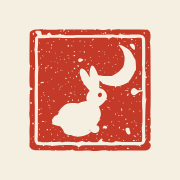
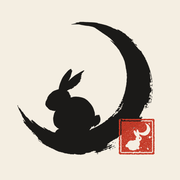
로고를 프로필 사진과 같은 그림으로: 종이색 네모 안 먹 달토끼 + 작은 붉은 도장 (맨 위·탭 그림)
- 대표님: "홈페이지도 그냥 이거로 해 줘"
- 360·412·1280 폭 한 줄, 가로 스크롤 없음

Claude-Session: https://claude.ai/code/session_01FLsPLfxv7h6r3gtgJWuoQW

diff --git a/sns/index.html b/sns/index.html
@@ -10,7 +10,7 @@
 <link rel="icon" href="../assets/favicon-16.png" type="image/png" sizes="16x16">
 <link rel="preload" href="../assets/fonts/Galmuri11-Bold.woff2" as="font" type="font/woff2" crossorigin>
 <link rel="preload" href="../assets/fonts/SongMyung-logo.woff2" as="font" type="font/woff2" crossorigin>
-<link rel="stylesheet" href="../style.css?v=20261117b">
+<link rel="stylesheet" href="../style.css?v=20261117c">
 <style>
 .post{margin:0 0 28px}
 .post h2{font-family:var(--pixel);font-weight:700;font-size:20px;margin:0 0 4px}
@@ -25,7 +25,7 @@ pre.copy{white-space:pre-wrap;word-break:keep-all;background:#fff8e6;color:var(-
 </head>
 <body>
 <div class="page">
-  <div class="top"><a class="mark" href="../"><img class="ink" src="../assets/logo-ink.svg" alt="" width="36" height="35">달나라 게임즈<img class="nak" src="../assets/logo-seal.svg" alt="" width="15" height="15"></a></div>
+  <div class="top"><a class="mark" href="../"><img class="tile" src="../assets/logo-tile.png" alt="" width="36" height="36">달나라 게임즈</a></div>
   <div class="doc">
     <h1>게시 목록</h1>
     <p class="when">인스타그램 @dalnara_games · 쓰레드 @dalnara_games · 오늘 11월 14일 (토)</p>

diff --git a/hanmari/index.html b/hanmari/index.html
@@ -16,12 +16,12 @@
 <link rel="apple-touch-icon" href="../assets/apple-touch-icon.png">
 <link rel="preload" href="../assets/fonts/Galmuri11-Bold.woff2" as="font" type="font/woff2" crossorigin>
 <link rel="preload" href="../assets/fonts/SongMyung-logo.woff2" as="font" type="font/woff2" crossorigin>
-<link rel="stylesheet" href="../style.css?v=20261117b">
+<link rel="stylesheet" href="../style.css?v=20261117c">
 </head>
 <body>
 <div class="page">
   <div class="top">
-    <a class="mark" href="../"><img class="ink" src="../assets/logo-ink.svg" alt="" width="36" height="35">달나라 게임즈<img class="nak" src="../assets/logo-seal.svg" alt="" width="15" height="15"></a>
+    <a class="mark" href="../"><img class="tile" src="../assets/logo-tile.png" alt="" width="36" height="36">달나라 게임즈</a>
     <nav aria-label="메뉴"><a href="https://www.threads.com/@dalnara_games" rel="noopener">쓰레드</a><a href="../#game">게임</a><a href="../#log">기록</a><a href="../#letter">편지</a></nav>
   </div>
 

diff --git a/tongtong/index.html b/tongtong/index.html
@@ -16,12 +16,12 @@
 <link rel="apple-touch-icon" href="../assets/apple-touch-icon.png">
 <link rel="preload" href="../assets/fonts/Galmuri11-Bold.woff2" as="font" type="font/woff2" crossorigin>
 <link rel="preload" href="../assets/fonts/SongMyung-logo.woff2" as="font" type="font/woff2" crossorigin>
-<link rel="stylesheet" href="../style.css?v=20261117b">
+<link rel="stylesheet" href="../style.css?v=20261117c">
 </head>
 <body>
 <div class="page">
   <div class="top">
-    <a class="mark" href="../"><img class="ink" src="../assets/logo-ink.svg" alt="" width="36" height="35">달나라 게임즈<img class="nak" src="../assets/logo-seal.svg" alt="" width="15" height="15"></a>
+    <a class="mark" href="../"><img class="tile" src="../assets/logo-tile.png" alt="" width="36" height="36">달나라 게임즈</a>
     <nav aria-label="메뉴"><a href="https://www.threads.com/@dalnara_games" rel="noopener">쓰레드</a><a href="../#game">게임</a><a href="../#log">기록</a><a href="../#letter">편지</a></nav>
   </div>
 

diff --git a/index.html b/index.html
@@ -16,12 +16,12 @@
 <link rel="apple-touch-icon" href="assets/apple-touch-icon.png">
 <link rel="preload" href="assets/fonts/Galmuri11-Bold.woff2" as="font" type="font/woff2" crossorigin>
 <link rel="preload" href="assets/fonts/SongMyung-logo.woff2" as="font" type="font/woff2" crossorigin>
-<link rel="stylesheet" href="style.css?v=20261117b">
+<link rel="stylesheet" href="style.css?v=20261117c">
 </head>
 <body>
 <div class="page">
   <div class="top">
-    <a class="mark" href="./"><img class="ink" src="assets/logo-ink.svg" alt="" width="36" height="35">달나라 게임즈<img class="nak" src="assets/logo-seal.svg" alt="" width="15" height="15"></a>
+    <a class="mark" href="./"><img class="tile" src="assets/logo-tile.png" alt="" width="36" height="36">달나라 게임즈</a>
     <nav aria-label="메뉴"><a href="https://www.threads.com/@dalnara_games" rel="noopener">쓰레드</a><a href="#game">게임</a><a href="#log">기록</a><a href="#letter">편지</a></nav>
   </div>
 

diff --git a/privacy.html b/privacy.html
@@ -15,12 +15,12 @@
 <link rel="preload" href="assets/fonts/Galmuri11-Bold.woff2" as="font" type="font/woff2" crossorigin>
 <link rel="preload" href="assets/fonts/SongMyung-logo.woff2" as="font" type="font/woff2" crossorigin>
 <link rel="stylesheet" href="https://fonts.googleapis.com/css2?family=Gowun+Batang:wght@400;700&display=swap">
-<link rel="stylesheet" href="style.css?v=20261117b">
+<link rel="stylesheet" href="style.css?v=20261117c">
 </head>
 <body>
 <div class="page">
   <div class="top">
-    <a class="mark" href="./"><img class="ink" src="assets/logo-ink.svg" alt="" width="36" height="35">달나라 게임즈<img class="nak" src="assets/logo-seal.svg" alt="" width="15" height="15"></a>
+    <a class="mark" href="./"><img class="tile" src="assets/logo-tile.png" alt="" width="36" height="36">달나라 게임즈</a>
     <nav aria-label="메뉴"><a href="./#game">게임</a><a href="./#log">기록</a><a href="./#letter">편지</a></nav>
   </div>
   <div class="doc">

diff --git a/terms.html b/terms.html
@@ -15,12 +15,12 @@
 <link rel="preload" href="assets/fonts/Galmuri11-Bold.woff2" as="font" type="font/woff2" crossorigin>
 <link rel="preload" href="assets/fonts/SongMyung-logo.woff2" as="font" type="font/woff2" crossorigin>
 <link rel="stylesheet" href="https://fonts.googleapis.com/css2?family=Gowun+Batang:wght@400;700&display=swap">
-<link rel="stylesheet" href="style.css?v=20261117b">
+<link rel="stylesheet" href="style.css?v=20261117c">
 </head>
 <body>
 <div class="page">
   <div class="top">
-    <a class="mark" href="./"><img class="ink" src="assets/logo-ink.svg" alt="" width="36" height="35">달나라 게임즈<img class="nak" src="assets/logo-seal.svg" alt="" width="15" height="15"></a>
+    <a class="mark" href="./"><img class="tile" src="assets/logo-tile.png" alt="" width="36" height="36">달나라 게임즈</a>
     <nav aria-label="메뉴"><a href="./#game">게임</a><a href="./#log">기록</a><a href="./#letter">편지</a></nav>
   </div>
   <div class="doc">

diff --git a/style.css b/style.css
@@ -147,6 +147,6 @@ section.one{padding-top:18px}
 @font-face{font-family:'SongMyung Logo';font-display:swap;src:url(assets/fonts/SongMyung-logo.woff2) format('woff2')}
 .top .mark{gap:9px;font-family:'SongMyung Logo',var(--serif);font-weight:400;font-size:20px;letter-spacing:.04em;line-height:1.2;color:#f1ead8;white-space:nowrap;flex:none}
 .top .mark img{flex:none}
-.top .mark .ink{width:36px;height:35px}
-.top .mark .nak{width:15px;height:15px;margin-left:-4px;position:relative;top:3px}
-@media (max-width:400px){.top .mark{font-size:17px;letter-spacing:.02em;gap:7px}.top .mark .ink{width:29px;height:28px}.top .mark .nak{width:13px;height:13px;margin-left:-3px}}
+.top .mark .tile{width:36px;height:36px;border-radius:5px}
+
+@media (max-width:400px){.top .mark{font-size:17px;letter-spacing:.02em;gap:7px}.top .mark .tile{width:30px;height:30px}}

diff --git a/CLAUDE.md b/CLAUDE.md
@@ -11,6 +11,6 @@
 ## 이 저장소
 - 달나라 게임즈 홈페이지(https://dalnaragames.com). GitHub Pages로 main 브랜치가 바로 올라간다.
 - 디자인은 AI 느낌을 피한다: 둥근 모서리·그라데이션·빛 번짐·이모지 장식 금지, 도트 글꼴(갈무리)과 나무 판자·양피지 같은 도트 재료를 쓴다.
-- **로고는 먹 달토끼 + 붉은 도장 낙관, 작은 곳은 도장만 (2026-11-17 대표님), 도트 토끼는 쓰지 않는다.** 맨 위 로고 = 먹 달토끼 `assets/logo-ink.svg`(밤색 바탕용 밝은 먹색) + '달나라 게임즈' 로고 글꼴 송명(`assets/fonts/SongMyung-logo.woff2`, 그 글자만 뽑은 파일, SIL OFL) + 글자 끝 작은 붉은 도장(낙관) `assets/logo-seal.svg`. 탭 그림(16·32px처럼 아주 작은 곳) = 붉은 도장만: `assets/favicon.svg`·`favicon-16/32.png`·`apple-touch-icon.png`·루트 `favicon.ico`. 원본은 게임 저장소 `docs/brand/logo_samples/1_먹한획/`(먹)·`4_붉은도장/`(도장). `assets/rabbit.svg`는 SNS 카드 도구(게임 저장소 `tools/sns/`)가 아직 불러 써서 파일만 남겨 둔다.
+- **로고는 종이색 네모 안에 먹 달토끼 + 오른쪽 아래 작은 붉은 도장 (2026-11-17 대표님 "홈페이지도 그냥 이거로", SNS 프로필 사진 C와 같은 그림), 도트 토끼는 쓰지 않는다.** 맨 위 로고 = `assets/logo-tile.png`(네모, 36px로 보임) + '달나라 게임즈' 로고 글꼴 송명(`assets/fonts/SongMyung-logo.woff2`, SIL OFL). 탭 그림도 같은 그림: `assets/favicon.svg`·`favicon-16/32.png`·`apple-touch-icon.png`. 원본은 게임 저장소 `docs/brand/profile/v2/C_먹달토끼_작은도장.png`. `logo-ink.svg`·`logo-seal.svg`·`rabbit.svg`는 다른 도구가 쓸 수 있어 파일만 남겨 둔다.
 - **홈페이지 말투 (2026-11-10 대표님)**: 쓰레드 말투를 존댓말로 옮긴 것. 친구한테 말하듯 짧게 "~요"로 쓰고 ㅋㅋ·!!는 가끔만. 시 같은 문장("달 위의 작은 작업실에서…"), 의성어로 멋 낸 문구("휙 던지고, 물에 닿을 때 톡"), 광고 말투, 셋씩 나열은 쓰지 않는다. 사실(숫자·실제로 있는 기능)만 쓴다. 개인정보처리방침·이용약관은 법적 문서라 격식체 그대로.
 - **게임 목록 구조 (2026-11-10)**: 첫 화면 '게임'에는 게임마다 한 줄(아이콘·이름·한 줄 설명·상태)만 두고, 자세한 얘기와 화면은 게임마다 따로 쪽(`hanmari/`, `tongtong/`)에 둔다. 새 게임은 목록에 한 줄 + 폴더 하나를 더한다. 개발 기록은 최근 6개만 보이고 나머지는 '예전 기록 더 보기' 안에.
